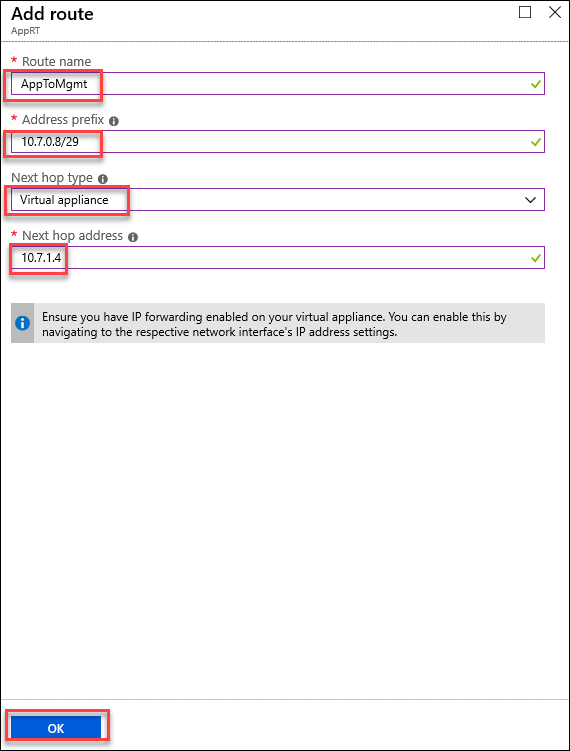
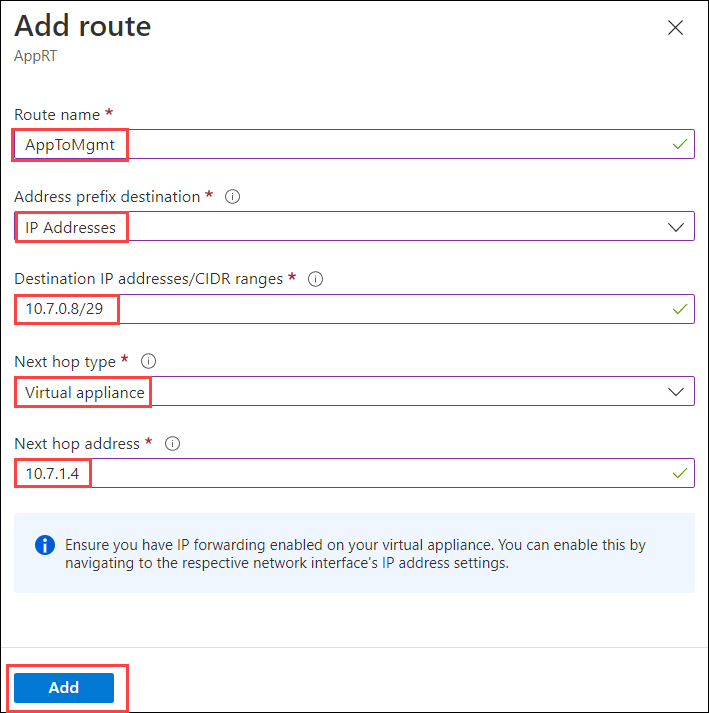
Images and text through Exercise 4, task 2, step 6

diff --git a/Hands-on lab/HOL step-by-step - Enterprise-class networking in Azure.md b/Hands-on lab/HOL step-by-step - Enterprise-class networking in Azure.md
@@ -494,7 +494,7 @@ Route Tables are containers for User Defined Routes (UDRs). The route table is c
 
 3. When the dialog looks like the following screenshot, select **Review + Create** then **Create**.
 
-    ![In this screenshot, the 'Create Route table' blade of the Azure portal is depicted with the required settings listed in the previous step selected.](images/hol-ex4-task1-create-route-table-basics.png "Create route table")
+    ![In this screenshot, the 'Create Route table' blade of the Azure portal is depicted with the required settings listed in the previous step highlighted.](images/hol-ex4-task1-create-route-table-basics.png "Create route table")
 
 4. Repeat steps 1 and 2 to create the **AppRT** route table:
 
@@ -516,11 +516,13 @@ Route Tables are containers for User Defined Routes (UDRs). The route table is c
 
 1. Select the **AppRT** route table, and select **Routes** under **Settings** on the left.
 
-    ![In this screenshot, the AppRT route table blade in the Azure portal is depicted with Routes selected under Settings on the left.](images/hol-ex4-task2-routes-navigation.png "Route table blade ")
+    ![In this screenshot, the AppRT route table blade in the Azure portal is depicted with Routes in the Settings section of the navigation on the left highlighted.](images/hol-ex4-task2-routes-navigation.png "Route table blade ")
 
-2. On the **Routes** blade, select **+ Add**. Enter the following information, and select **OK**:
+2. On the **Routes** blade, select **+ Add**. Enter the following information, and select **Add**:
 
     - Route name: **AppToInternet**
+
+    - Address prefix destination: **IP Addresses**
 
     - Address prefix: **0.0.0.0/0**
 
@@ -528,11 +530,13 @@ Route Tables are containers for User Defined Routes (UDRs). The route table is c
 
     - Next hop address: **10.7.1.4**
 
-    ![In this screenshot, the 'Add route' blade of the AppRT route table in the Azure portal is depicted with the required settings listed above selected.](images/hol-ex4-task2-add-route-blade-app-to-internet.png "Add route configuration")
+    ![In this screenshot, the 'Add route' blade of the AppRT route table in the Azure portal is depicted with the required settings listed above highlighted.](images/hol-ex4-task2-add-route-blade-app-to-internet.png "Add route configuration")
 
 3. Repeat this procedure to add the **AppToMgmt** route using the following information:
 
     - Route name: **AppToMgmt**
+
+    - Address prefix destination: **IP Addresses**
 
     - Address prefix: **10.7.0.8/29**
 
@@ -540,21 +544,23 @@ Route Tables are containers for User Defined Routes (UDRs). The route table is c
 
     - Next hop address: **10.7.1.4**
 
-    ![In this screenshot, the 'Add route' blade of the AppRT route table in the Azure portal is depicted with the required settings listed above selected.](images/hol-ex4-task2-add-route-blade-app-to-mgmt.png "Edit route")
+    ![In this screenshot, the 'Add route' blade of the AppRT route table in the Azure portal is depicted with the required settings listed above highlighted.](images/hol-ex4-task2-add-route-blade-app-to-mgmt.png "Edit route")
 
 4. Upon completion, your routes in the **AppRT** route table should look like the following screenshot:
 
     ![In this screenshot, the Routes blade of the AppRT route table is depicted with the two newly creates routes listed.](images/hol-ex4-task2-apprt-route-table.png "Route table ")
 
-5. In the Azure Portal, go to All Services and type Route in the search box and select **Route tables**.
+5. In the Azure Portal, go to All Services and type **route** in the search box and select **Route tables**.
 
 6. Select **MgmtRT**, and select **Routes** under **Settings** on the left.
 
-    ![In this screenshot, the 'Route tables' blade of the Azure portal is depicted with the MgmtRT route table selected.](images/hol-ex4-task2-mgmtrt-in-route-tables.png "MgmtRT")
+    ![In this screenshot, the 'Routes' blade of the Azure portal is depicted with the MgmtRT route table selected. The Routes option under the Settings section of the left navigation is highlighted.](images/hol-ex4-task2-mgmtrt-in-route-tables.png "MgmtRT")
 
 7. On the **Routes** blade, select **+Add**. Enter the following information, and select **OK**:
 
     - Route name: **MgmtToOnPremises**
+
+    - Address prefix destination: **IP Addresses**
 
     - Address prefix: **192.168.0.0/16**
 
